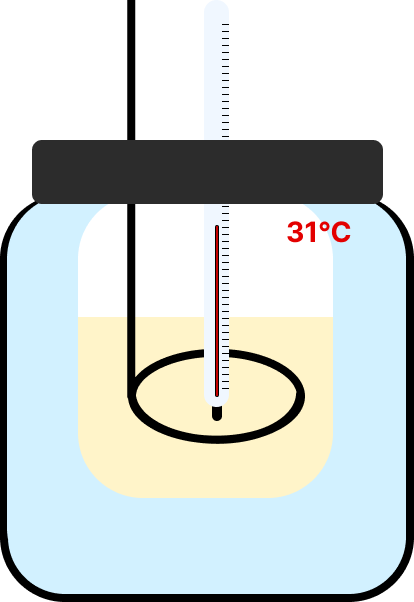
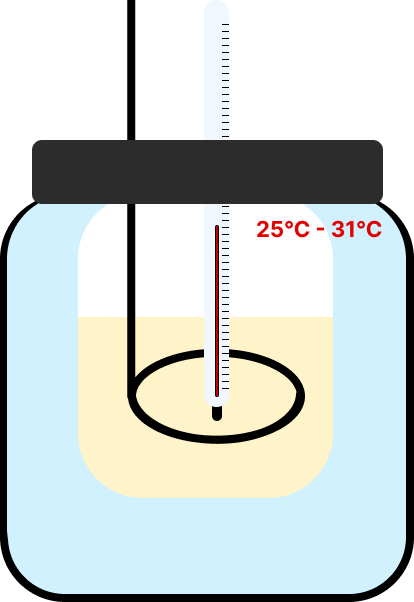
update step 5

Changed region(s): [[0.6087, 0.3588, 0.9275, 0.4186]]

diff --git a/resources/views/simulasi/kalorimeter/trial-1.blade.php b/resources/views/simulasi/kalorimeter/trial-1.blade.php
@@ -45,7 +45,7 @@
                 text: "Langkah 3: Masukkan NaOH ke dalam kalorimeter."
             },
             {
-                image: "{{ asset('assets/images/step_4.png') }}",
+                image: "{{ asset('assets/images/step_4-5.png') }}",
                 text: "Langkah 4: Aduk larutan di dalam kalorimeter."
             },
             {
